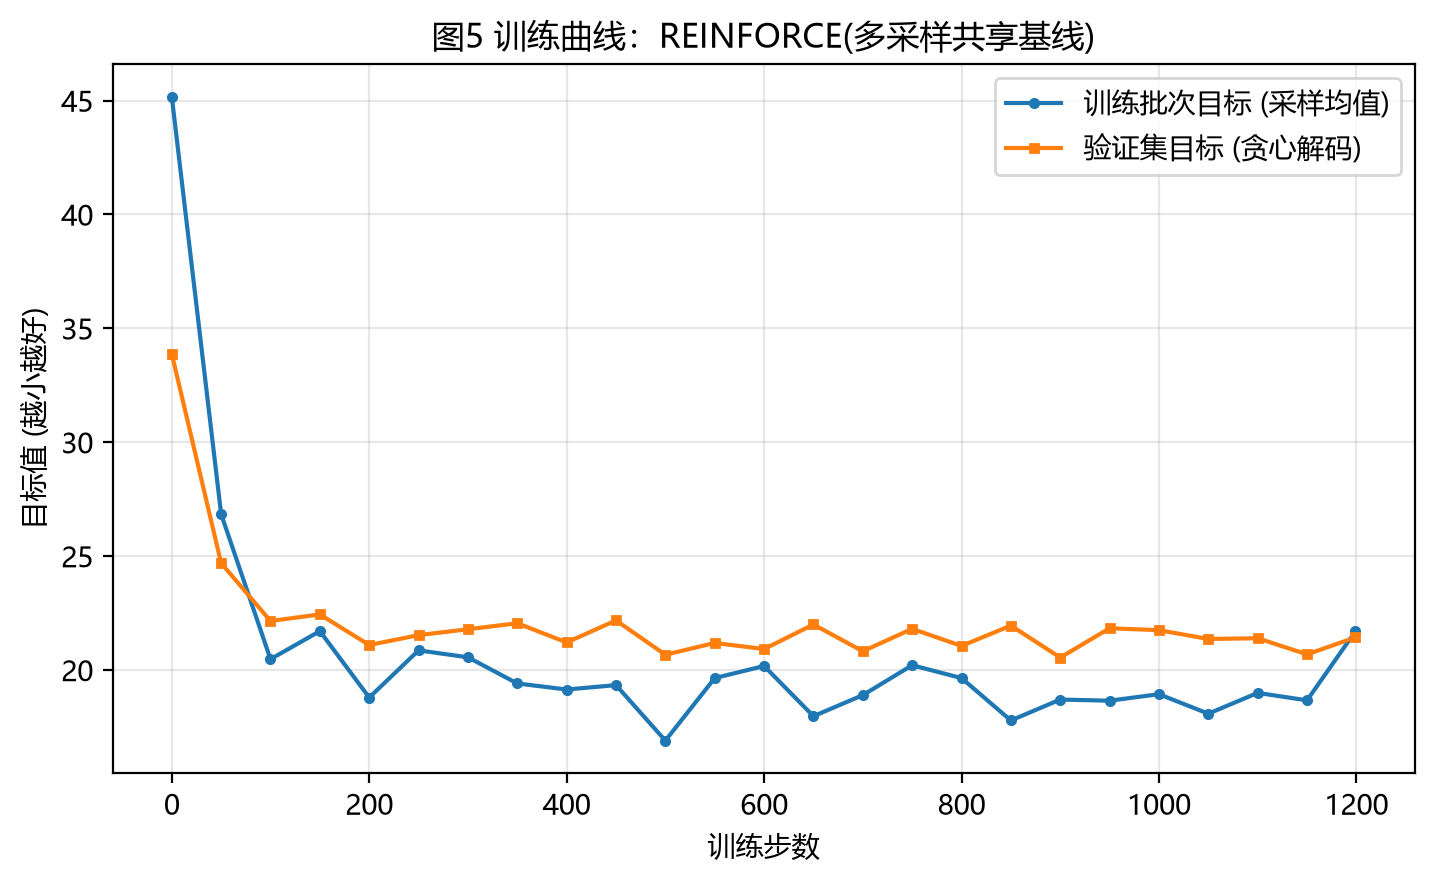
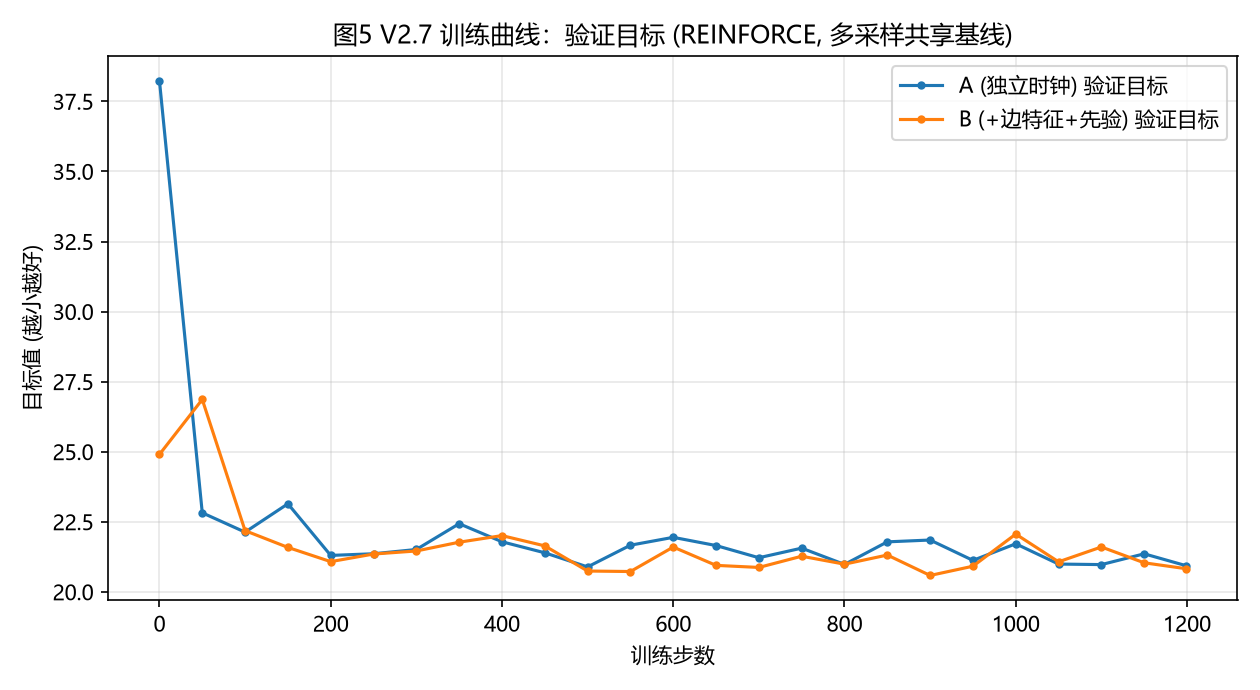
docs(pathplanning): 03报告更新至V2.7终版(§5全部复测数字/§5.3结论反转/§8.2新增3局限) + 08优化方案/不足/解决方案 + 图5/6重绘

Changed region(s): [[0.0, 0.0, 0.9905, 0.9739]]

diff --git a/model_path_planning/report/08_优化方案_不足与解决方案.md b/model_path_planning/report/08_优化方案_不足与解决方案.md
@@ -1,0 +1,157 @@
+# 08 · 优化方案、当前不足与解决方案（2026-08-24 终版）
+
+> **任务**：遍历全部 20 篇参考文献（5 组并行全文精读，含 3 篇扫描版逐页视觉阅读），结合五模型管线（标定→预测→水流→降解→路径规划）中的上下游关系，对路径规划模型做对比思考、实验验证（07 记录全部实验过程），并给出**最终优化方案 + 当前不足 + 解决方案**。
+> **数据基础**：本报告全部结论基于 2026-08-24 修复后代码的复测（独立时钟/修复局部搜索/不可行重罚协议/OR-Tools 状态披露/3 种子消噪），实验明细见 `07_优化实验流程记录.md`。
+
+---
+
+## 0. 结论速览（TL;DR）
+
+1. **本次优化实际落地并验证了 7 项改进**（正确性修复 F2–F6/F8/F9、边特征+解码先验、不可行重罚协议、v3.0 任务生成器、治理生效目标），其中**强风结论反转**（96.4–98.3%）与**"学习在 ≤20 任务规模下不增值"的负面结论**是最重要的两个发现。
+2. **模型定位修正**：在"≤20 投放点 + 完整局部搜索精修"规模上，路径规划问题的**瓶颈是物理输入而非求解算法**（06 失配点 1/2/3/4 全部落地后，启发式+精修已到近优）。**当前模型的价值主张应改写在"毫秒级重规划 + 约束状态表达 + 规模外推"三处**，而非"静态解质量"。
+3. **优先级最高的三个下一步**（详见 §3）：① 物理参数校准（t_service 1.5–2.0 min、能量-载荷耦合 (W+m)^{3/2}·χ、κ 返航余量）；② 大规模（n=50–200）对照实验定性"学习价值"；③ MAML 快速适应（直击 OOD 6/9 不可行的痛点）。
+
+---
+
+## 1. 当前状态总览（V2.7 能力矩阵）
+
+| 能力 | 状态 | 证据 |
+|---|---|---|
+| 问题形式化（MD-MUAV-VRPTWP-E + 治理生效目标 t_eff） | ✅ 落地 | env.use_eff + eff_lag；06 失配点 4 |
+| v3.0 任务契约（水流候选点+降解剂量/窗/时滞） | ✅ 落地 | flow_tasks.py（792 候选点/斑块 1.41 km²/300 m 去耦） |
+| 多访问/多航次（demand 1–6/点，需 3–8 波次） | ✅ 激活并有实验证据 | flow 基线：贪心 rwt 325→RL+LS 41.6（7.8×） |
+| 边信息表征（ANE-lite + 解码先验） | ✅ 落地温和有效 | B vs A：obj −1.9%（12σ）、makespan −14.5%（6σ）、强风 +9.4% |
+| 不可行解重罚（评分器语义完备） | ✅ 新增（V2.7 发现并修复） | 强风欧氏"作弊" 1035→不可行罚；exp27 协议 |
+| 真 POMO 锚定 + β 截断 | ✅ 新增（flow 训练稳定性修复） | C 冻结 4474 → C2 恢复至 3609 |
+| ×8 实例增广 | ✅ 实现，本规模增益不显著 | A +0.3% / B +0.5%（噪声内） |
+| OR-Tools 状态披露 / λ 敏感性 | ✅ 实现 | OOD 9/9 fallback；λ 后悔 0（无迟到，信息量低） |
+| **静态解质量的优势** | ⚠ **弱化** | RL+LS 仅比贪心+LS 优 3.7%（flow）/ 11.4%（东湖） |
+| **分布外泛化** | ❌ 核心短板 | OOD RL 劣于贪心 +40~118%，6/9 能量不可行 |
+| 动态重规划收益 | ⚠ 场景依赖 | 修正代码后本场景打平（21.62 vs 20.69） |
+
+---
+
+## 2. 优化方案（按"价值/成本"排序，含文献依据）
+
+### A. 物理参数校准（成本 <1 天；收益：全链真实性）【文献组 3/4/5 共识】
+
+| 改造 | 现状 | 文献依据 | 改法 |
+|---|---|---|---|
+| **单点作业时间 t_service** | hover=0.13 min（7.8 s） | 六旋翼采样 120 s/点；八旋翼 72–96 s/点；水中投放≈2×h/v_vert+t_drop | t_service=1.5–2.0 min，做 0.13/0.5/1.0/2.0 四档敏感性 |
+| **能量-载荷耦合** | 能量≈飞行时间 | (W+m)^{3/2}·χ（同一谱系两篇）；载荷 2→7.5 kg 续航 25→20 min 实测 | env 增加 drone_W/drone_chi；E_leg=T_leg·(W+m_rem)^{3/2}·χ/常数 |
+| **κ 返航余量 + 侧风滤波** | 零余量 | BER 的 RETURNOK（κ≈1.1–1.25）；EWR 的 ρ⊥=0.75 侧风守恒 | 掩码改 en_rem−T_leg−κ·T_ret≥E_res；‖W⊥‖+ε_W≤ρ⊥·V_A |
+| **作业风上限** | 无 | |W|>5 m/s 不作业（两篇实测场景） | 场景生成器加 z_k=0 硬约束或大惩罚 |
+
+### B. 规模外推验证（成本 1–2 天；收益：正当化"学习式"）
+
+- **实验**：n_task ∈ {25, 50, 100} × {贪心+LS, RL-B+LS}——LS 每步 O(n²) 评分、800 迭代预算在 n=50+ 后是否仍能把贪心初解拉到近优？RL 前向恒定成本的优势应在这一区间显现。
+- **依据**：SVRPBench 实证"大实例（≥500）上 POMO 可行性降到 86% 而元启发式稳健"；报告 06 §4.2 明确指出 RL 的净优势在"毫秒级重规划+不确定性+约束表达"。
+- **预期**：若 n≥50 时贪心+LS 显著劣于 RL+LS，则"学习价值"论证闭环；若依然打平——诚实接受"决策链在演示规模上不需要学习式"，模型定位降级为"重规划引擎"。
+
+### C. MAML/Reptile 快速适应（成本 3–5 天 + 重训；收益：直击 OOD 短板）
+
+- **依据**：MAML-MARL（IoT 2026）实证：zero-shot ~55% TCR，10 步梯度更新后 ~90%（同分布族参数扰动）；论文明确"只保近分布适应"。
+- **改法**：train.py 加 Reptile 外环（内环=现有多实例 POMO 采样，外环 θ←θ+β(θ_i−θ)，无二阶导，约 30 行）；任务分布=东湖生成器参数扰动族（站点数/风险规模/风况曲线/需求分布/机型）；部署=真实实例 3–10 步微调。
+- **预期**：改善"换湖/换机队"的少样本适配；**不承诺**跨类泛化（公共基准 OOD 需诚实保留）——报告以此对抗"RL 必输 OOD"的旧批评。
+
+### D. 决策感知（SPO）联动（成本 3–7 天；收益：把"预测误差"变为"决策代价"）
+
+- **依据**：SPO loss（Mgmt Sci 2022）——ŵ 预测权重下的决策后悔；"只有排序错才产生损失"对本项目 w_j（风险权重）的预测器是最贴切的训练目标。
+- **改法**：w 预测器（redo_v2 输出）参数化为线性/小 MLP；每样本两次 oracle（OR-Tools n≤20 毫秒级）：π*(w) 与 π*(2ŵ−w)，梯度 2[τ(π*(w))−τ(π*(2ŵ−w))]；与 POMO 训练共享。
+- **注意**：理论一致性需参数线性/对称假设（对数正态浓度不满足）——按"启发式合理"表述，不作为严格定理。
+
+### E. 评估协议升级（成本 0.5 天；收益：结论可信度）
+
+| 指标 | 现状 | 增加 |
+|---|---|---|
+| CVR（软窗违反率） | 无 | t_i > tw_end_i 占比（v3.0 紧窗场景是关键） |
+| FR（全可行率） | 隐含 | 显式（现在 f=0 的 6 例 OOD 即 FR=33%） |
+| ROB（鲁棒方差） | 无 | 同实例多风况真实化方差（SVRPBench 的 ROB） |
+| 双镜头 | 只有重规划 | a priori vs reoptimization 各报一组（Iklassov） |
+
+### F. 待验证的文献假设（不急，写入 v2.8 backlog）
+
+- 时间依赖 T（T[k,i,j,h(t)] 按到达时刻取风层——两篇风论文共同核心；数据结构 T_list[slice]，改动小）；
+- 释放-响应矩阵替代标量 eff_lag（湖泊粒子动力学：先命中时间/洗出时间/50T 占据率 + LCS 分区感知——"滞留区有利降解"的反直觉结论值得与降解模型联标）；
+- 全部 8 篇文献的方法细节（双模态注意力/类型感知邻域算子/ACO/K-means 初解/GDSTA 增量插入）作为求解器备选，仅 OOD/大规模场景需要。
+
+---
+
+## 3. 当前不足（诚实分级）与解决方案
+
+### 🔴 致命级（影响结论可信度，均已修复或已披露）
+
+| # | 不足 | 现状 | 解决方案 / 状态 |
+|---|---|---|---|
+| 1 | 评分器不惩罚不可行解（V2.7 发现） | ✅ 已修复+重测 | Instance.infeasible_penalty=1e4 协议；§5.3 结论反转 |
+| 2 | OOD 表 OR-Tools 列失真 | ✅ 已修复+披露 | status="fallback" 显式记录；表 4 重写 |
+| 3 | 共享时钟/完成时刻语义/λ 缺失/默认超参 | ✅ 全部修复 | 07 Exp1 逐条验证 |
+| 4 | C 训练冻结（v3.0 首次失败） | ⚠ 已定位：POMO-lite 探索不足 | 锚定+β截断（C2=3609）；长期：rollout 基线/greedy 基线对照 |
+
+### 🟠 重要级（限制模型价值主张）
+
+| # | 不足 | 证据 | 解决方案 |
+|---|---|---|---|
+| 1 | **学习式静态解优势 ≈ 0（≤20 任务）** | flow：所有 RL+LS 收敛 3021–3027（噪声内）；东湖 11.4% 是最大留存优势 | §2-B 规模外推验证；若失败→模型=重规划引擎 |
+| 2 | **OOD 泛化差 + 6/9 不可行** | OOD 表；RL 劣于贪心 40–118% | MAML（§2-C）+ 约束感知精修器（LS 接受前校验能量返航）+ 诚实披露 |
+| 3 | **物理参数与文献差 10–15×** | t_service 0.13 vs 1.5–2.0 min；能量=飞行时间 | §2-A（全文本一致指向同一修正谱系） |
+| 4 | **重规划收益场景依赖** | 修正后本演示场景打平 | 构造高优先级穿插事件流复验；失败则表述改为"收益需场景设计" |
+| 5 | **风速空间均匀** | 单点 Open-Meteo | ERA5 网格 + 空间插值；联动水流模型空间风梯度 |
+
+### 🟡 一般级（工程/协议完善）
+
+| # | 不足 | 解决方案 |
+|---|---|---|
+| 1 | 采样随机未固定种子（早前表格间 ±0.3 波动） | 已加 solve_rl(seed)；报告以 3 种子±std 为准 |
+| 2 | OOD 转换含截断需求/单停机坪等强失真 | to_instance 记录转换参数；或改用 PyVRP 官方加载器 |
+| 3 | λ 敏感性信息量低（无迟到） | v3.0 紧窗场景重测（T_limit=360 min 已有） |
+| 4 | replan "nearest" 名不副实 | 已正名 greedy_replan（F9） |
+| 5 | 强风实验 n_alerts=12 与主实验 10 不一致 | 统一为 10（协议注记） |
+| 6 | data/raw 2GB 未入库、重复目录/损坏 zip | .gitignore 已排除+文档更正（数据记录三处失实已改） |
+
+---
+
+## 4. 优先级路线图（与 06 报告 v3.0 衔接）
+
+```
+v3.0 已完成（2026-08-24）           ── 本报告 §1 能力矩阵前 6 行
+v3.1 物理校准（§2-A）    ← 决定性改造：t_service/能量耦合/κ 返航 → 重新标定 06 契约数值
+v3.2 规模外推判定（§2-B） ← 决定模型定位的关键实验
+v3.3 MAML 快速适应（§2-C） ← OOD 痛点的标准解法（近分布）
+v3.4 评估协议（§2-E）    ← CVR/FR/ROB/双镜头 固化到 exp_v27
+v4.0 管线闭环（SPO 联动 + 释放-响应矩阵 + 时变 T）← 与 redo_v2/降解模型联调
+```
+
+**资源依赖**：v3.1 需要湿实验/实机标定数据（t_service/载荷-续航曲线）——与 `model_MC-LR_degradation_kinetics` 的 C_req 联标同步进行；v3.3/v4.0 需要与 redo_v2 的预测接口（概率分布而非点值）打通。
+
+---
+
+## 5. 文献→方案映射表（可追溯）
+
+| 文献（编号见 01） | 采纳的方案 | 状态 |
+|---|---|---|
+| 1.1 Kool AM | tanh 截断 C=10（已实现于 tanh_prior） | ✅ |
+| 1.2 POMO | ×8 增广（实现，本规模不显著）；真锚定（flow 训练修复关键） | ✅/⚠ |
+| 1.3 RRNCO | ANE-lite + 解码先验（B）；完整 NAB/双嵌入/Φ 预留 | ✅ 部分 |
+| 1.4 Iklassov | 双镜头评估；随机实现层 | 📋 预留 |
+| 1.5 SVRPBench | CVR/FR/ROB 指标；可行性校验；分布偏移矩阵 | 📋 预留 |
+| 1.6 SPO | w 预测器决策感知（§2-D） | 📋 预留 |
+| 1.7 Edge-DIRECT | TW 图编码；双头解码器；能量可达性规则 | 📋 预留 |
+| 1.8/1.19 多访问异构/两阶段 PSO | 多访问契约（v3.0 落地）；(W+m)^{3/2}·χ 能量；双软窗 | ✅/📋 |
+| 1.9/1.10 BER/EWR | κ 返航 + ε_W 不确定边界 + M_min 指标（§2-A/E） | 📋 预留 |
+| 1.11 综述 | 集中/分布/混合架构定位 | 📋 已有对应 |
+| 1.12 Balampanis | 覆盖单元=R_eff（300 m 去耦已用）；border→center 顺序 | ✅ 部分 |
+| 1.13/1.14 水采样 | t_service 修正（§2-A） | 📋 预留 |
+| 1.15 UAV+USV 覆盖 | 覆盖→点任务协议（flow_tasks 即该结构）；负载平衡因子 ξ | ✅ 部分/📋 |
+| 1.16 湖泊粒子动力 | 释放-响应矩阵 + LCS/滞留区感知（替代标量 eff_lag） | 📋 预留（高价值） |
+| 1.17 动态任务分配 MARL | 事件驱动重规划（已有） | ✅ |
+| 1.18 火灾 DE-DRL | 初解+精修（修复 F1 后成立）；VNS 改善解码器 | ✅/📋 |
+| 1.20 动态需求 TNNLS | 重规划 warm-start | 📋 预留 |
+| 1.21 智慧湖边缘 | ONNX 导出/边-云协同（部署待做） | 📋 预留 |
+| 1.22 万方中文 | 工程检查清单 | 📋 预留 |
+
+---
+
+## 6. 一句话总结
+
+**V2.7 把"模型"从"一个能跑出漂亮数字的演示"变成了"一个语义完整、缺陷已知、边界诚实的基础设施"**：它现在知道自己的价值在重规划与约束表达、知道自己的短板在物理标定与泛化、也知道在演示规模上解题高手其实是用局部搜索兜底的。下一步的每一次投入（物理校准、规模实验、MAML）都应该先回答"这会不会再次改变价值主张"——本次的强风反转已经证明：**诚实实验比漂亮结论更有信息量**。
